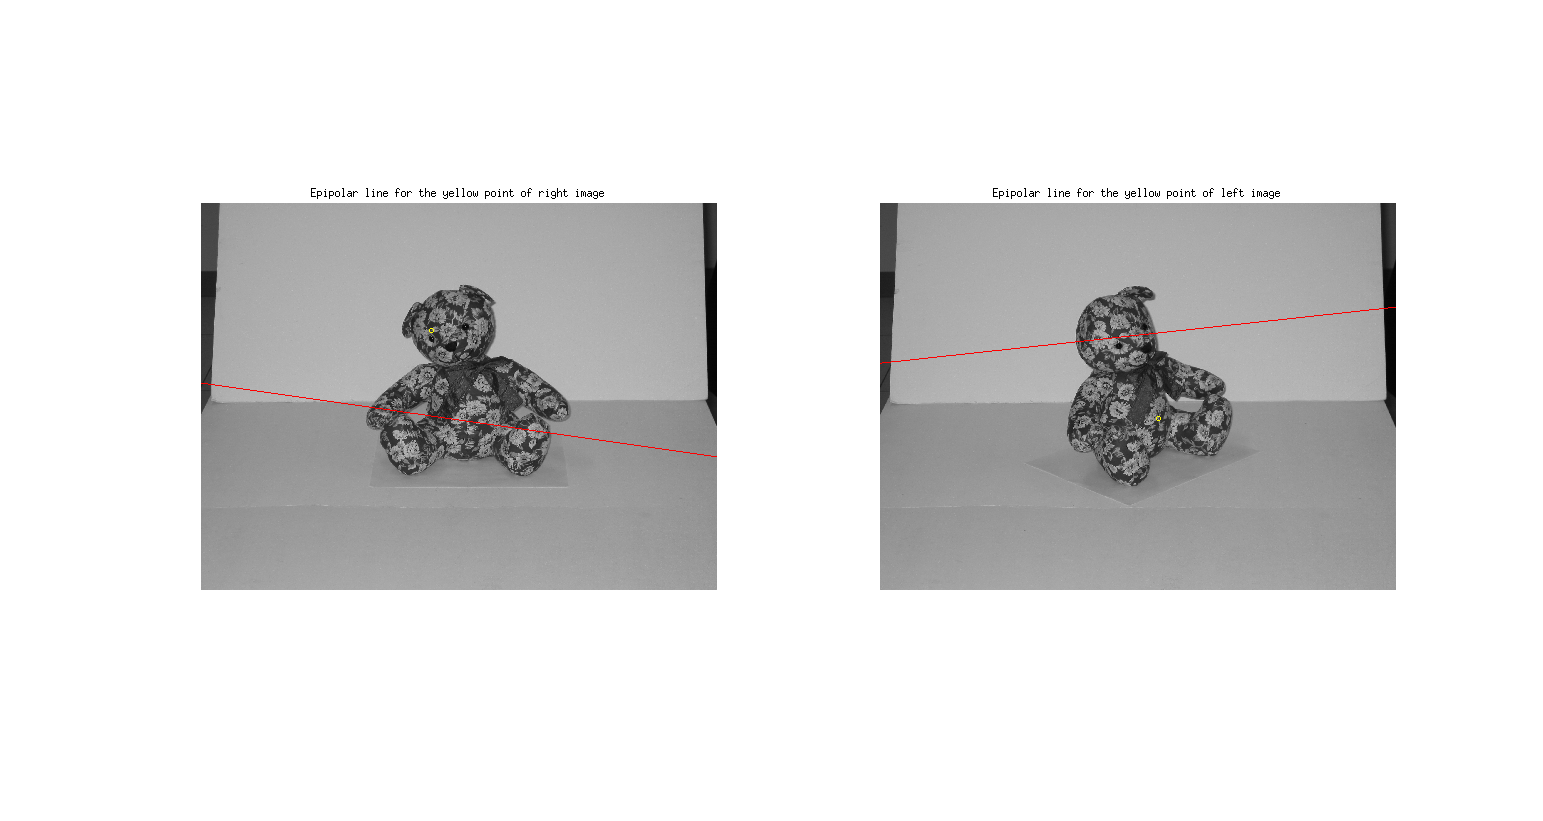
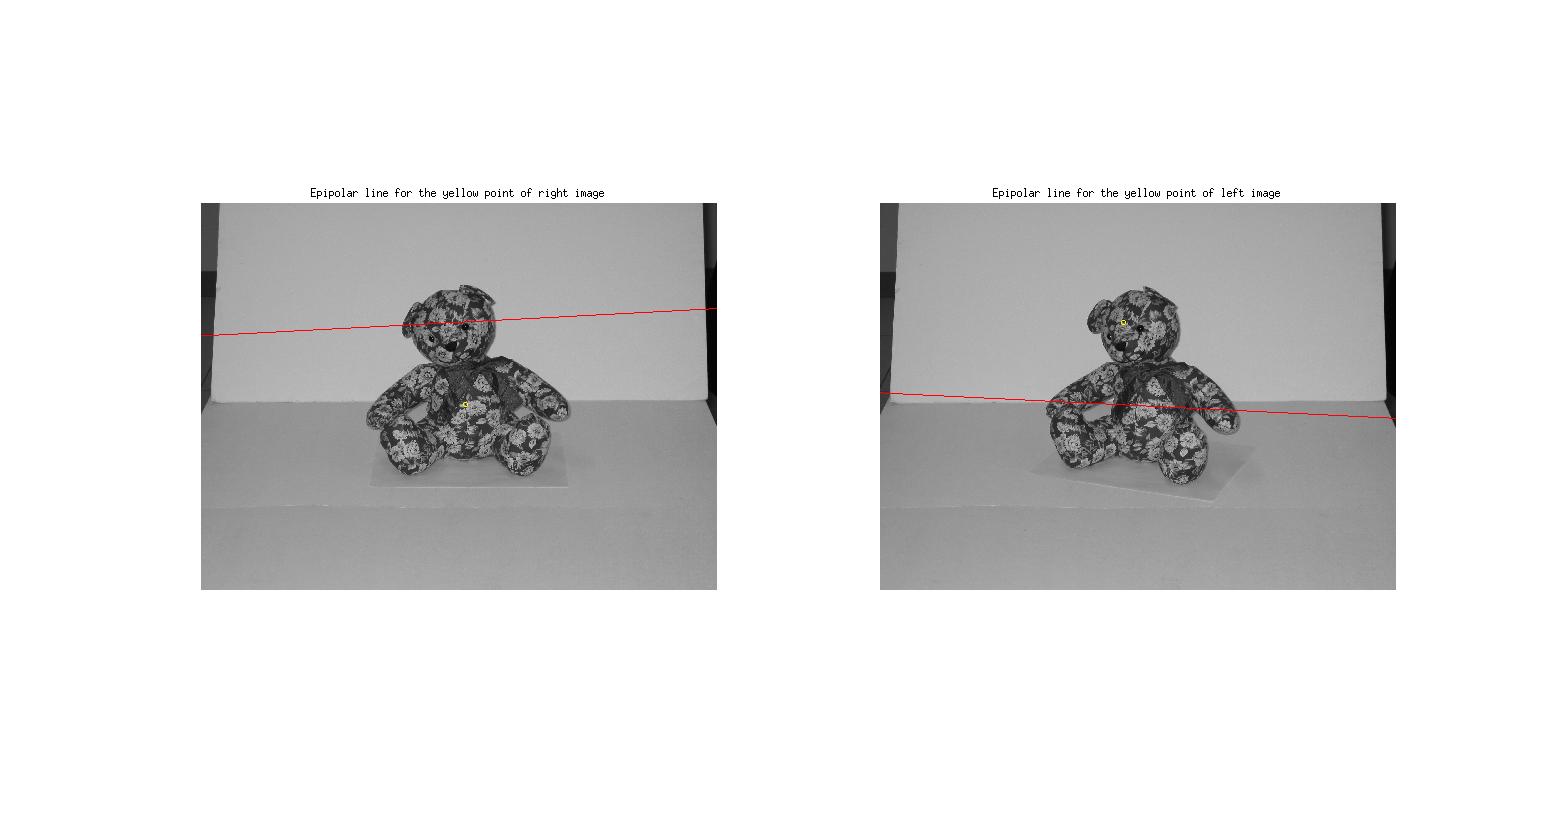
Done

Changed region(s): [[0.6533, 0.335, 0.8088, 0.609]]

diff --git a/Assignment5/Fdemo.m b/Assignment5/Fdemo.m
@@ -5,11 +5,11 @@ tic;
 % Read images
 disp('Reading images');
 img1 = im2double(rgb2gray(imread('TeddyBearPNG/obj02_001.png')));
-img2 = im2double(rgb2gray(imread('TeddyBearPNG/obj02_015.png')));
+img2 = im2double(rgb2gray(imread('TeddyBearPNG/obj02_002.png')));
 
 % Read Features and Descriptors
 [feat1,desc1,~,~] = loadFeatures('TeddyBearPNG/obj02_001.png.haraff.sift');
-[feat2,desc2,~,~] = loadFeatures('TeddyBearPNG/obj02_015.png.haraff.sift');
+[feat2,desc2,~,~] = loadFeatures('TeddyBearPNG/obj02_002.png.haraff.sift');
 
 % img1 = im2double(rgb2gray(imread('BoxPNG/left.png')));
 % img2 = im2double(rgb2gray(imread('BoxPNG/right.png')));
@@ -81,8 +81,43 @@ scatter(pointR(1),pointR(2),15,'y');
 epiR = F*pointL;
 plot(-(epiR(1)*(1:size(img2,2))+epiR(3))./epiR(2), 'r')
 
-
 epiL = F'*pointR;
 subplot(1,2,1);
 plot(-(epiL(1)*(1:size(img1,2))+epiL(3))./epiL(2), 'r')
+
+figure;
+subplot(1,2,1);
+imshow(img1);
+title('Image 1 with the epipolar lines from 20 points in image 2')
+hold on;
+subplot(1,2,2);
+imshow(img2);
+title('Image 2 with the epipolar lines from 20 points in image 1')
+hold on;
+
+perm = randperm(size(f2,2));
+seed = perm(1:20);
+
+pointsL = f2(1:2,seed);
+pointsL = [pointsL;ones(1,size(pointsL,2))];
+
+pointsR = f2(1:2,seed);
+pointsR = [pointsR;ones(1,size(pointsR,2))];
+
+for i=1:20
+    pointR = pointsR(:,i);
+    epiL = F'*pointR; 
+    
+    pointL = pointsL(:,i);
+    epiR = F'*pointL; 
+    
+    subplot(1,2,1);
+    plot(-(epiL(1)*(1:size(img1,2))+epiL(3))./epiL(2), 'r')
+    subplot(1,2,2);
+    plot(-(epiR(1)*(1:size(img2,2))+epiR(3))./epiL(2), 'r')
+end
+
+
+
+
 
